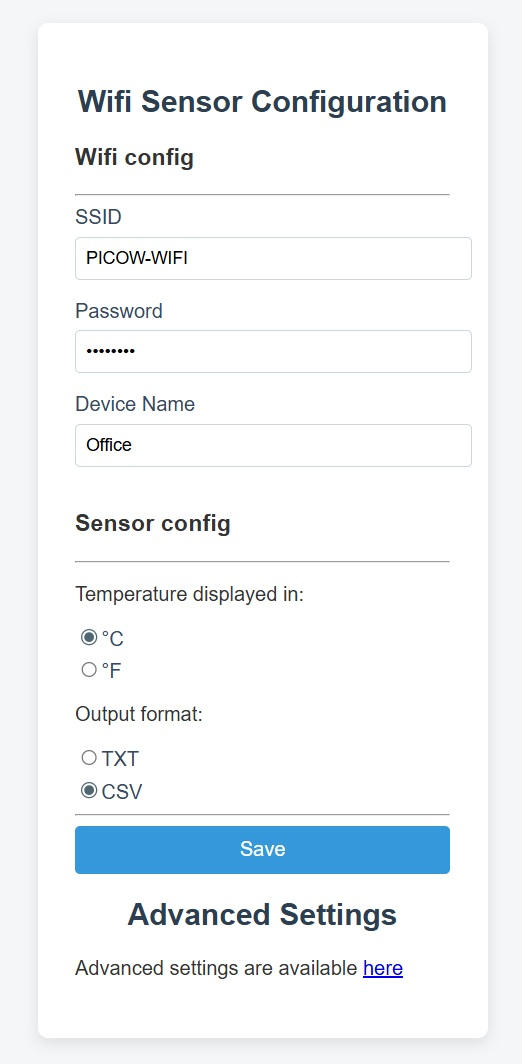
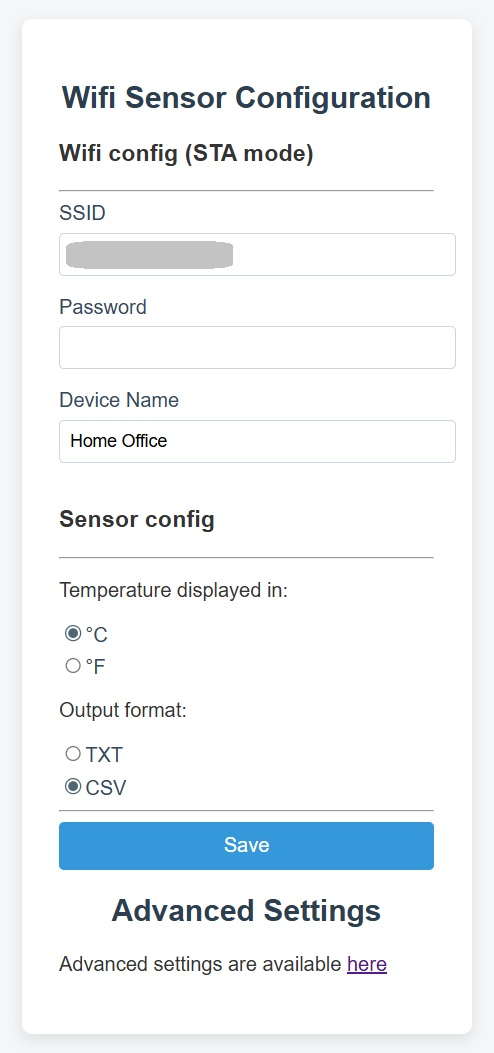
Changed the check of the wifi password. Now the SSID show in the configuration is always the SSID used in Station Mode. Complete the README file.

diff --git a/wlt_tcp.c b/wlt_tcp.c
@@ -110,6 +110,10 @@ static int build_req_settings_form(char *result, size_t max_result_len)
         printf("prtconfig is NULL\n");
         return 0; // Error
     }
+    if (pconfig == NULL) {
+        printf("pconfig is NULL\n");
+        return 0; // Error
+    }
 
     len2copy = snprintf(result + len, max_result_len - len, SETTINGS_REPLY_HEAD);        
     if ((len2copy > 0) && (len2copy < max_result_len)) {
@@ -119,10 +123,12 @@ static int build_req_settings_form(char *result, size_t max_result_len)
         return 0; // Error
     }   
     // copy the wifi form
+    // we show the wifi SSID used in Station mode, the password is left blank
+    // to avoid security issues, the device name is shown as well
     len2copy = snprintf(result + len,
                         max_result_len - len,
                         SETTINGS_REPLY_FORM_WIFI,
-                        prtconfig->net_config.wifi_ssid,
+                        pconfig->wifi_ssid,
                         WIFI_PASS_HIDDEN,
                         prtconfig->net_config.devicename);
     if ((len2copy > 0) && (len2copy < (max_result_len - len))) {
@@ -235,10 +241,15 @@ static int build_req_adv_settings_form(char *result, size_t max_result_len)
  */
 static int check_wifi_password(const char *password)
 {
+    int ret = WIFI_PASS_VALID;
+
     if (password != NULL) {
-        // Check if the password is valid (not empty and not too long or too short)
+        if(strlen(password) == 0) {
+            return WIFI_PASS_NOT_CHANGE; // Password not provided, not changed
+        }
+        // if password is not empty, check if the password is valid (not too long or too short)
         // and not containing special characters
-        if (password == NULL || strlen(password) < WIFI_PASS_MIN_LEN || strlen(password) > WIFI_PASS_MAX_LEN) {
+        if (strlen(password) < WIFI_PASS_MIN_LEN || strlen(password) > WIFI_PASS_MAX_LEN) {
             return WIFI_PASS_INVALID; // Invalid password
         }
         for (const char *c = password; *c != '\0'; c++) {
@@ -246,14 +257,13 @@ static int check_wifi_password(const char *password)
                 return WIFI_PASS_INVALID; // Invalid password
             }
         }
-        if(strstr(password, WIFI_PASS_HIDDEN) != NULL) {
-            return WIFI_PASS_NOT_CHANGE; // Password should not contain the hidden placeholder
-        }
     }
     else {
         // If the password is NULL, it means it's not changed
         return WIFI_PASS_NOT_CHANGE;
     }
+
+    return ret;
 }
 
 /*
@@ -473,7 +483,14 @@ static int fill_server_content(const char *request, const char *params, char *re
                         }
                         param = strtok(NULL, "&");
                     }
-
+#if 1 //DEBUG
+                    printf("Parsed parameters: ssid=%s, pwd=%s, devname=%s, scale=%s, oform=%s\n", 
+                           ssid ? ssid : "NULL", 
+                           pwd ? pwd : "NULL", 
+                           devname ? devname : "NULL", 
+                           scale ? scale : "NULL", 
+                           oform ? oform : "NULL");
+#endif
                     // Update the configuration
                     if (ssid && pwd && devname && scale && oform) {
                         int ret;
@@ -486,6 +503,8 @@ static int fill_server_content(const char *request, const char *params, char *re
                             len = snprintf(result, max_result_len, SETTINGS_SAVE_NACK_EINVAL);
                             return len; // Error
                         } else if (ret == WIFI_PASS_VALID) {
+                            printf("Wi-Fi password changed (new password=%s)\n",pwd);
+                            // Copy the password, ensuring we don't overflow
                             strncpy((char *)prtconfig->net_config.wifi_pass, pwd, sizeof(prtconfig->net_config.wifi_pass) - 1);
                         }
                         // when use method GET, if the original devicename contains spaces, they are replaced with '%20' or '+' in the URL,

diff --git a/include/wlt.h b/include/wlt.h
@@ -9,7 +9,7 @@
 #define WIFI_SSID_MAX_LEN                   32
 #define WIFI_PASS_MAX_LEN                   64
 #define WIFI_PASS_MIN_LEN                   8
-#define WIFI_PASS_HIDDEN                    "********"
+#define WIFI_PASS_HIDDEN                    ""
 #define WIFI_PASS_VALID                     1
 #define WIFI_PASS_INVALID                   0
 #define WIFI_PASS_NOT_CHANGE                -1

diff --git a/include/wlt_tcp.h b/include/wlt_tcp.h
@@ -163,7 +163,7 @@ document.getElementById('datetime').textContent = new Date().toLocaleString();\
 <div class=\"form-container\">\
 <h2>Wifi Sensor Configuration</h2>\
 <form action=\"/setparams\" method=\"get\">\
-<h3>Wifi config</h3>\
+<h3>Wifi config (STA mode)</h3>\
 <hr>"
 
 #define SETTINGS_REPLY_FORM_WIFI            "<label for=\"ssid\">SSID</label>\

diff --git a/README.md b/README.md
@@ -14,20 +14,20 @@ The device allows configuration of several parameters, including:
 
 - Sensor polling interval
 
-- Temperature and humidity thresholds to activate or deactivate predefined outputs
+- Temperature and humidity thresholds to activate or deactivate predefined outputs (not completely developed yet).
 
 You can also set the SSID and password to connect the device to a desired WiFi network.
-All configuration settings are stored in EEPROM memory connected via the I2C bus.
+All configuration settings are stored in EEPROM memory connected via the I2C bus: I use a memory add-on available in my project [addon_eeprom_i2c](https://github.com/montif1975/addon_eeprom_i2c).
 
-The device's WiFi mode—Access Point (AP) or Station (STA)—is selected based on the state of a predefined GPIO pin (default: GPIO 22).
+The device's WiFi mode — Access Point (AP) or Station (STA) — is selected based on the state of a predefined GPIO pin (default: GPIO 22).
 
 Sensor readings are always available, but configuration is only possible when the device is operating in Access Point mode.
 
 ## Hardware configuration
 
-In the project I used the Raspberry Pi Pico W with RP2040 microcontroller and Infineon Wifi and Bluetooth chip, see the device datasheet as reference.
+In the project I used the Raspberry Pi Pico W with RP2040 microcontroller and Infineon CYW43439 Wifi and Bluetooth chip, see the device datasheet as reference.
 
-The sensor is connected to the I2C channel 0 using:
+The temperature sensor is connected to the I2C channel 0 using:
 - SDA on GPIO 8
 - SCL on GPIO 9
 
@@ -84,8 +84,26 @@ Simple web pages use a style sheet that can be easily modified to change the loo
 ## API interface
 
 The device also implements an API endpoints.
+The implementation is in progess. The table below show the API planned and the staus of implementation.
 
-TODO
+
+| API request           |   Method  | Implemented |
+|-----------------------|-----------|-------------|
+| /api/v1/info          |    GET    |   YES       |
+| /api/v1/settings      |    GET    |   YES       |
+| /api/v1/setparams     |    N/A    |   NOT YET   |
+| /api/v1/setadvparams  |    N/A    |   NOT YET   |
+| /api/v1/sethightemp   |    N/A    |   NOT YET   |
+| /api/v1/setlowtemp    |    N/A    |   NOT YET   |
+| /api/v1/sethighhum    |    N/A    |   NOT YET   |
+| /api/v1/setlowhum     |    N/A    |   NOT YET   |
+
+
+Here an example of the response to API request /api/v1/info
+![api info](/resources/info_api.jpg "API info response")
+
+Here an example of the response to API request /api/v1/settings
+![api settings](/resources/settings_api.jpg "API settings response")
 
 
 ## Serial interface
